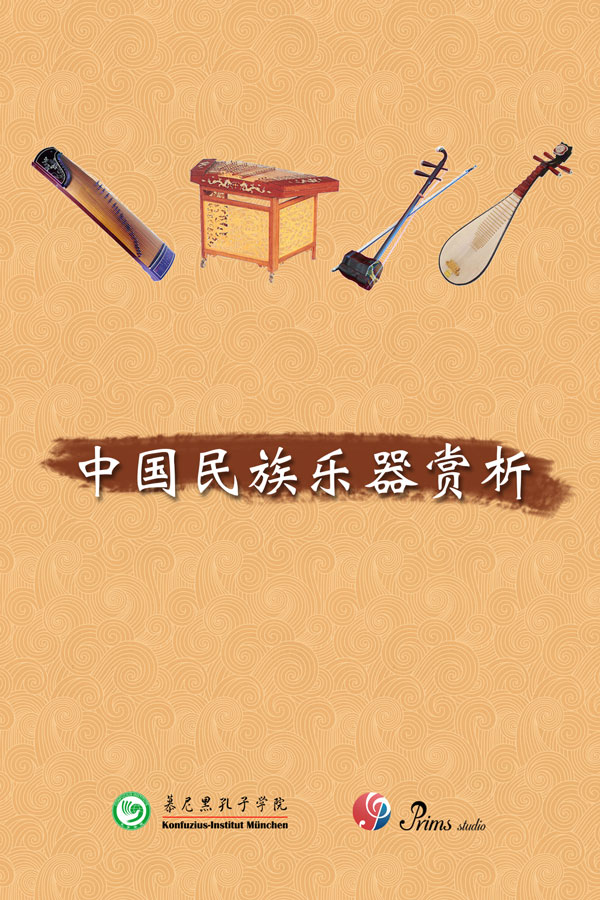
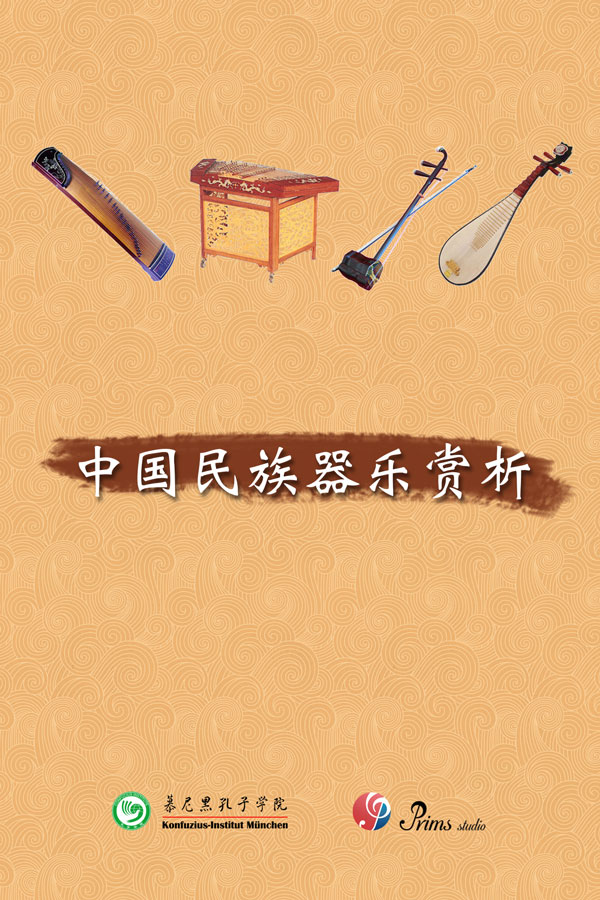
Change event title.

Changed region(s): [[0.51, 0.4978, 0.69, 0.56]]

diff --git a/_posts/zh/event/2015-01-09-002-instruments-of-chinese-folk-music.md b/_posts/zh/event/2015-01-09-002-instruments-of-chinese-folk-music.md
@@ -2,19 +2,19 @@
 layout: post
 portal:
     top: on
-    top_text: 中国民族乐器赏析
+    top_text: 中国民族器乐赏析
     top_image: /images/event/002-portal.jpg
 locale: zh
 categories: zh event
-title: 中国民族乐器赏析
+title: 中国民族器乐赏析
 teaser_image: /images/event/002-teaser.jpg
 time: 2015年1月9日，晚七点半
 place: P+P Pöllath and Partners, Hofstatt 1, 80331 München
-excerpt: 讲述乐器背后的故事，同时现场演奏几首不同风格的乐曲。
+excerpt: 讲述器乐背后的故事，同时现场演奏几首不同风格的乐曲。
 side_content: <p><img src="/images/event/002-poster.jpg"></p>
     <h5>合作伙伴</h5><p><a href="http://www.konfuzius-muenchen.de/" target="_blank"><img src="/images/partner/konfuzius-institut-muenchen.png"></a></p>
 ---
 
-2015年新春伊始，Prims音乐工作室应邀做客慕尼黑孔子学院，参加孔子学院联合东方基金会举办的《第96期文化沙龙－中国民族乐器赏析》专题讲座。
+2015年新春伊始，Prims音乐工作室应邀做客慕尼黑孔子学院，参加孔子学院联合东方基金会举办的《第96期文化沙龙－中国民族器乐赏析》专题讲座。
 
-中国民族乐器的种类繁多，历史文化背景深厚。本期文化沙龙将为大家一一讲述这些乐器背后的故事，同时现场将演奏几首不同风格的乐曲。
+中国民族器乐的种类繁多，历史文化背景深厚。本期文化沙龙将为大家一一讲述这些器乐背后的故事，同时现场将演奏几首不同风格的乐曲。
